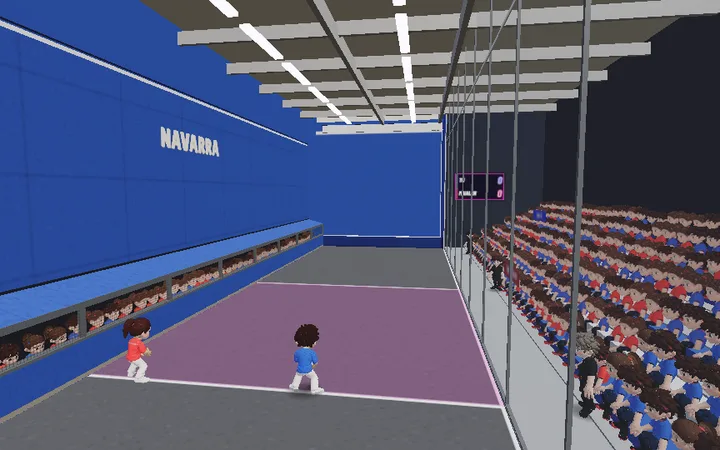
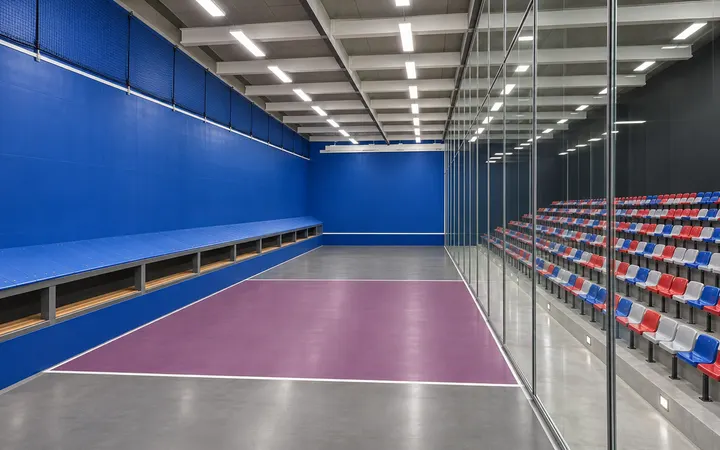
Trinquete: imágenes de Higgsfield para los trinquetes y el mural de Lekunberri
Las cartas del Trinquete Herrizherri y del Beltza en Frontones, pintadas a
partir del propio partido como una foto de la cancha vacía, y el mural
de la fachada del trinquete de Lekunberri, pintado y recortado sobre el
revoco de la nave.

Claude-Session: https://claude.ai/code/session_01LP3syHb7415C8M5w3wgHaS

diff --git a/src/world/trinquetePueblo.js b/src/world/trinquetePueblo.js
@@ -13,6 +13,10 @@ import { terrainHeight } from './heightfield.js';
 import { addBox } from './colliders.js';
 import { freeCanvasOnUpload } from '../util/freeCanvas.js';
 import { clamp } from '../util/math.js';
+// (el mural de Lekunberri, pintado en Higgsfield, GPT Image: el pelotari de blanco con la faja roja, el xare, la pala y las
+// pelotas, sobre la pared azul verdosa, que se quita para que asome el revoco de la nave; 672 × 288 con transparencia. El
+// autor: «apóyate en Higgsfield para las imágenes». Mientras llega, o si no llega, el dibujo de mural())
+import MURAL from '../assets/murales/trinquete-lekunberri.webp?url';
 
 const LOOK = {
   lekunberri: { pared: null, paredColor: '#3f8d94', zocalo: 'stoneDark', tejado: 'zinc', puerta: '#1f56a6', mural: true, anexo: true, ventanas: 'banda',
@@ -179,6 +183,17 @@ export function trinqueteEdificio(B, group, mats, lm, def) {
   if (L.mural) { g.save(); g.beginPath(); g.rect(0, 0, MW, MH); g.clip(); mural(g, MW, MH); g.restore(); }
   g.save(); g.translate(0, CH - RH); g.beginPath(); g.rect(0, 0, RW, RH); g.clip(); rotulo(L.rotulo)(g, RW, RH); g.restore();
   const tx = freeCanvasOnUpload(new THREE.CanvasTexture(cv)); tx.colorSpace = THREE.SRGBColorSpace; tx.anisotropy = 4;
+  if (L.mural) {
+    const img = new Image(); img.decoding = 'async';
+    img.onload = () => {
+      const c2 = document.createElement('canvas'); c2.width = CW; c2.height = CH; const g2 = c2.getContext('2d');
+      const k = Math.min(MW / img.width, MH / img.height), w = img.width * k, h = img.height * k;
+      g2.drawImage(img, (MW - w) / 2, (MH - h) / 2, w, h);
+      g2.save(); g2.translate(0, CH - RH); g2.beginPath(); g2.rect(0, 0, RW, RH); g2.clip(); rotulo(L.rotulo)(g2, RW, RH); g2.restore();
+      tx.image = c2; freeCanvasOnUpload(tx); tx.needsUpdate = true;
+    };
+    img.src = MURAL;
+  }
   const geos = [plano(5.2, 1.3, 0, CH - RH, RW, RH, CW, CH).applyMatrix4(at(0, 4.15, zf + 0.05))];
   if (L.mural) geos.push(plano(13.3, 5.0, 0, 0, MW, MH, CW, CH).applyMatrix4(at(0, 7.3, zf + 0.03)));
   const lam = new THREE.Mesh(mergeGeometries(geos), new THREE.MeshStandardMaterial({ map: tx, alphaTest: 0.5, roughness: 0.85, polygonOffset: true, polygonOffsetFactor: -2, polygonOffsetUnits: -2 }));

diff --git a/src/ui/frontonFotos.js b/src/ui/frontonFotos.js
@@ -7,7 +7,9 @@ const FOTOS = urls(import.meta.glob('../assets/frontones/*.webp', { eager: true,
 const CANCHAS = urls(import.meta.glob('../assets/frontones-juego/*.webp', { eager: true, query: '?url', import: 'default' }));
 /** La foto de verdad de un frontón (su clave en data/frontones.js) o ''. */
 export const fotoFronton = (k) => (k && FOTOS[k]) || '';
-/** Una cancha sacada del propio juego por su nombre (los trinquetes inventados de «Frontones»: torneo.js TRINQ_JUEGO) o ''. */
+/** Una cancha del propio juego por su nombre (los trinquetes inventados de «Frontones»: torneo.js TRINQ_JUEGO) o ''. Las de
+ *  los dos trinquetes, pintadas en Higgsfield (GPT Image) a partir de una imagen del propio partido: la misma cancha, el
+ *  mismo encuadre, como una foto, vacía y sin letras (el autor: «apóyate en Higgsfield para las imágenes») */
 export const canchaFoto = (k) => (k && CANCHAS[k]) || '';
 /** La cancha de un pueblo tal como se juega: sede 'plaza', 'cubierto' o 'labrit' (la de Iruña), o ''. */
 export const canchaImg = (town, sede) => CANCHAS[sede === 'labrit' ? 'pamplona-labrit' : `${town}-${sede}`] || '';

diff --git a/src/game/torneo.js b/src/game/torneo.js
@@ -838,7 +838,8 @@ const tipoTxt = (F) => { const eu = isEU(), T = TIPOS[F.tipo] || TIPOS.izquierda
 const primera = (t = '') => (String(t).match(/^.*?[.!?](\s|$)/) || [t])[0].trim();
 export function frontonesMenu() {
   efCss(); if (!document.getElementById('frg-css')) { const st = document.createElement('style'); st.id = 'frg-css'; st.textContent = FR_CSS; document.head.appendChild(st); }
-  // (y al final, los dos trinquetes modernos inventados para el juego, con la imagen sacada del propio partido: TRINQ_JUEGO)
+  // (y al final, los dos trinquetes modernos inventados para el juego, con su imagen pintada en Higgsfield a partir de una
+  // del propio partido, la misma cancha y el mismo encuadre: TRINQ_JUEGO)
   const LISTA = [...DESTACADOS, ...TRINQ_JUEGO], eu = isEU(), N = { todos: LISTA.length }; for (const F of LISTA) N[F.tipo] = (N[F.tipo] || 0) + 1;
   return new Promise(res => {
     let filtro = 'todos', sel = null;

diff --git a/ARQUITECTURA.md b/ARQUITECTURA.md
@@ -1387,6 +1387,12 @@ cuando cambie la estructura. Las copias de seguridad son ramas de git `copia-AAA
       después de la del Cuatro y Medio (`pelotaMenu`, `T4`; `torneoTrinquete` en `townDeportes.js`), y el pelotari del
       pueblo lo ofrece con los otros tres. Las txapelas del torneo de antes pasan una vez al de la primera comarca donde
       se juegue y el guardado viejo se borra.
+    - Las imágenes, con Higgsfield (el autor: «apóyate en Higgsfield para las imágenes»): las de las cartas del Trinquete
+      Herrizherri y del Beltza en «Frontones» (`src/assets/frontones-juego`), pintadas con GPT Image a partir de una imagen
+      del propio partido, la misma cancha y el mismo encuadre, como una foto, vacía y sin letras (antes, la captura del
+      juego con los pelotaris y el público); y el mural del trinquete de Lekunberri (`src/assets/murales`), un pelotari de
+      blanco con la faja roja, un xare, una pala y dos pelotas, con el fondo quitado para que asome el revoco de la nave;
+      se carga encima del dibujo de `mural()`, que queda si no llega. Seis imágenes, 9 créditos.
     - Los trinquetes de verdad en los pueblos (`world/trinquetePueblo.js`, «sigue con lo que falte»): un monumento nuevo,
       `trinquete`, en Elizondo (Trinquete Antxitonea) y en Lekunberri (Trinquete de Lekunberri), al final de su lista para
       no mover los índices de los demás. Va sobre su edificio de los datos, el que se llama «Trinkete…»

diff --git a/src/assets/murales/LICENCIAS.md b/src/assets/murales/LICENCIAS.md
@@ -1,0 +1,5 @@
+# Murales
+
+- `trinquete-lekunberri.webp`: el mural de la fachada del trinquete de Lekunberri en el juego. Pintado para el juego con
+  Higgsfield (GPT Image) el 15 de noviembre de 2026: un pelotari genérico, que no es nadie de verdad, un xare, una pala y
+  dos pelotas, sin letras ni escudos. El fondo azul verdoso se quitó para dejarlo con transparencia (672 × 288).
